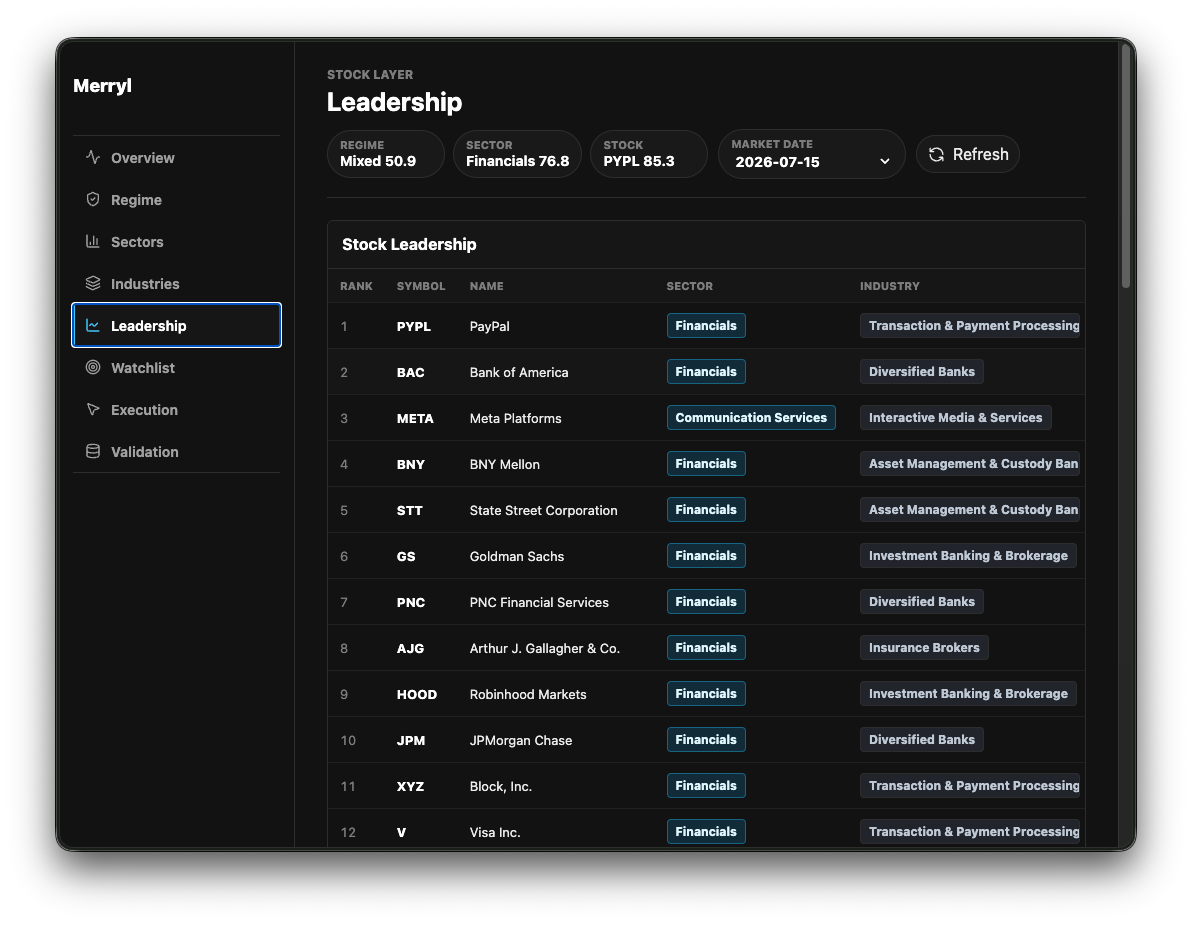
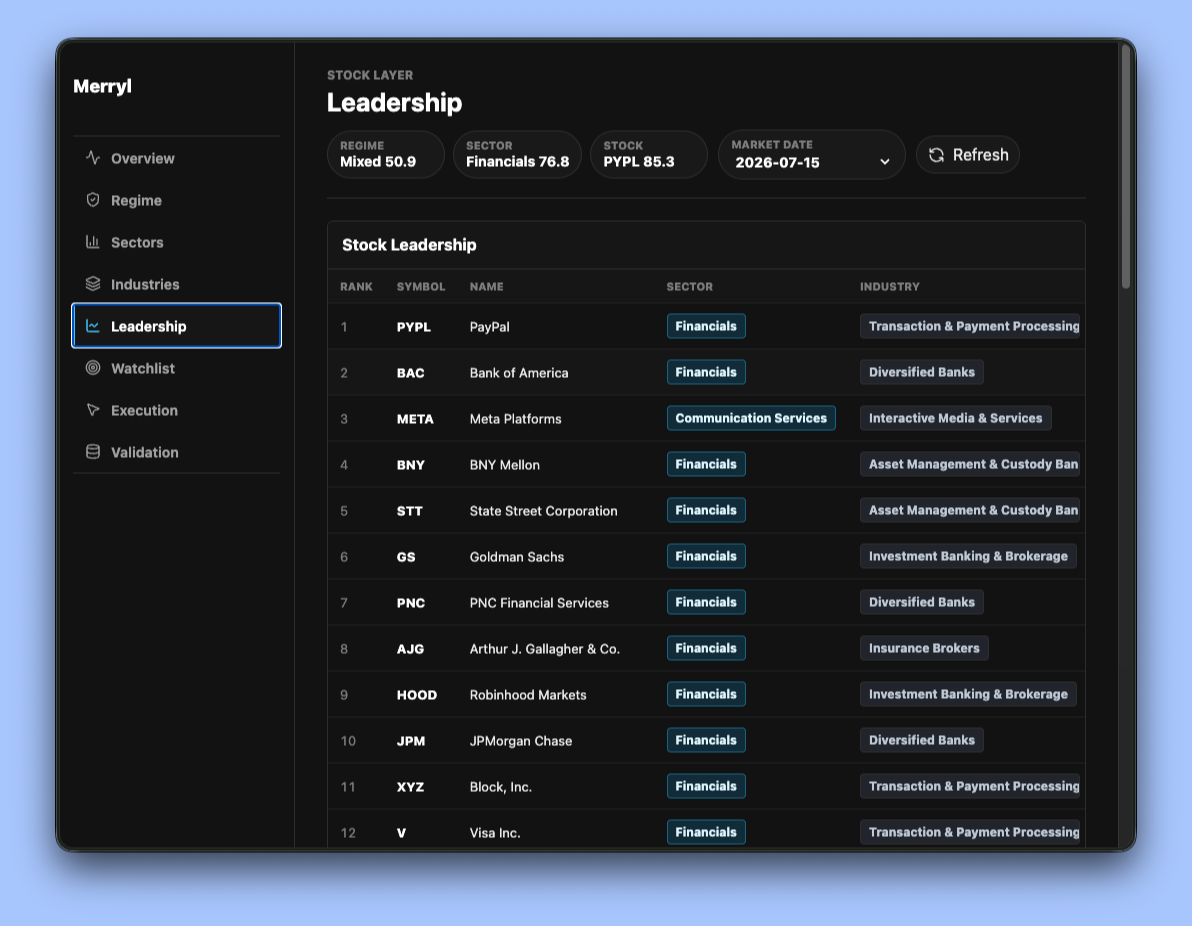
update README: remove centered title and update dashboard image

diff --git a/README.md b/README.md
@@ -1,5 +1,3 @@
-<h2 align="center">Merryl</h2>
-
 <p align="center">
   <img src="docs/images/merryl-dashboard.png" alt="Merryl dashboard">
 </p>
